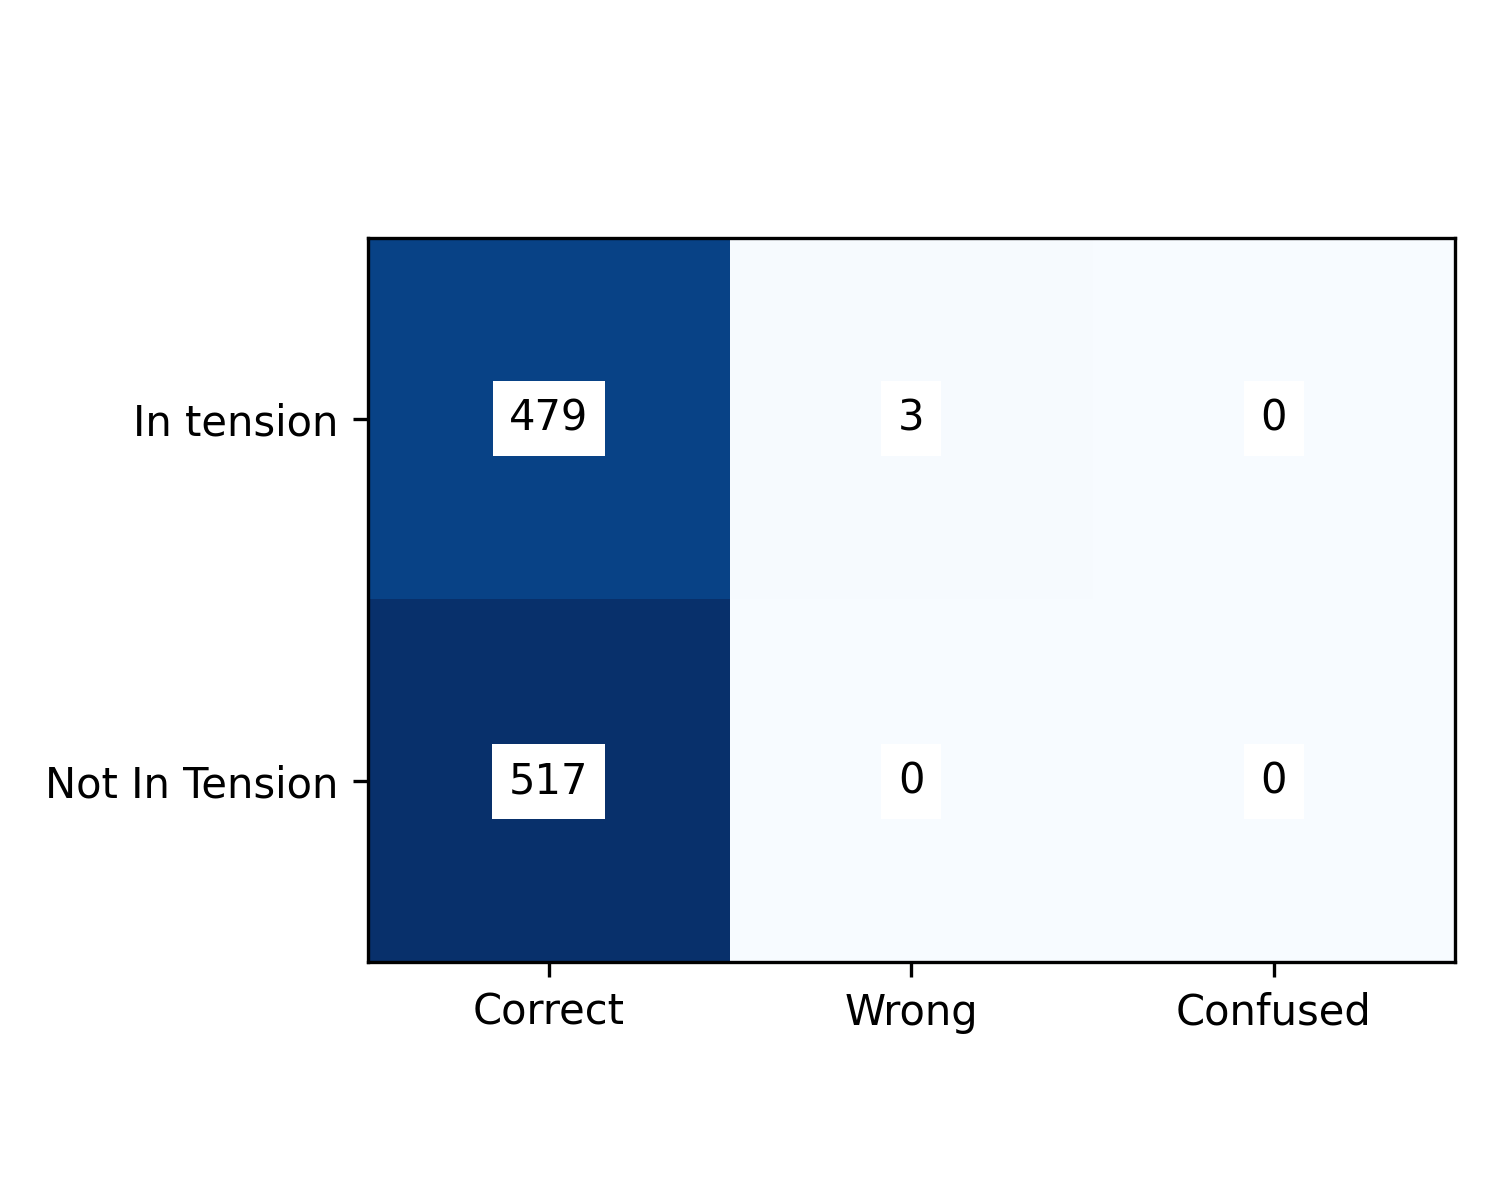
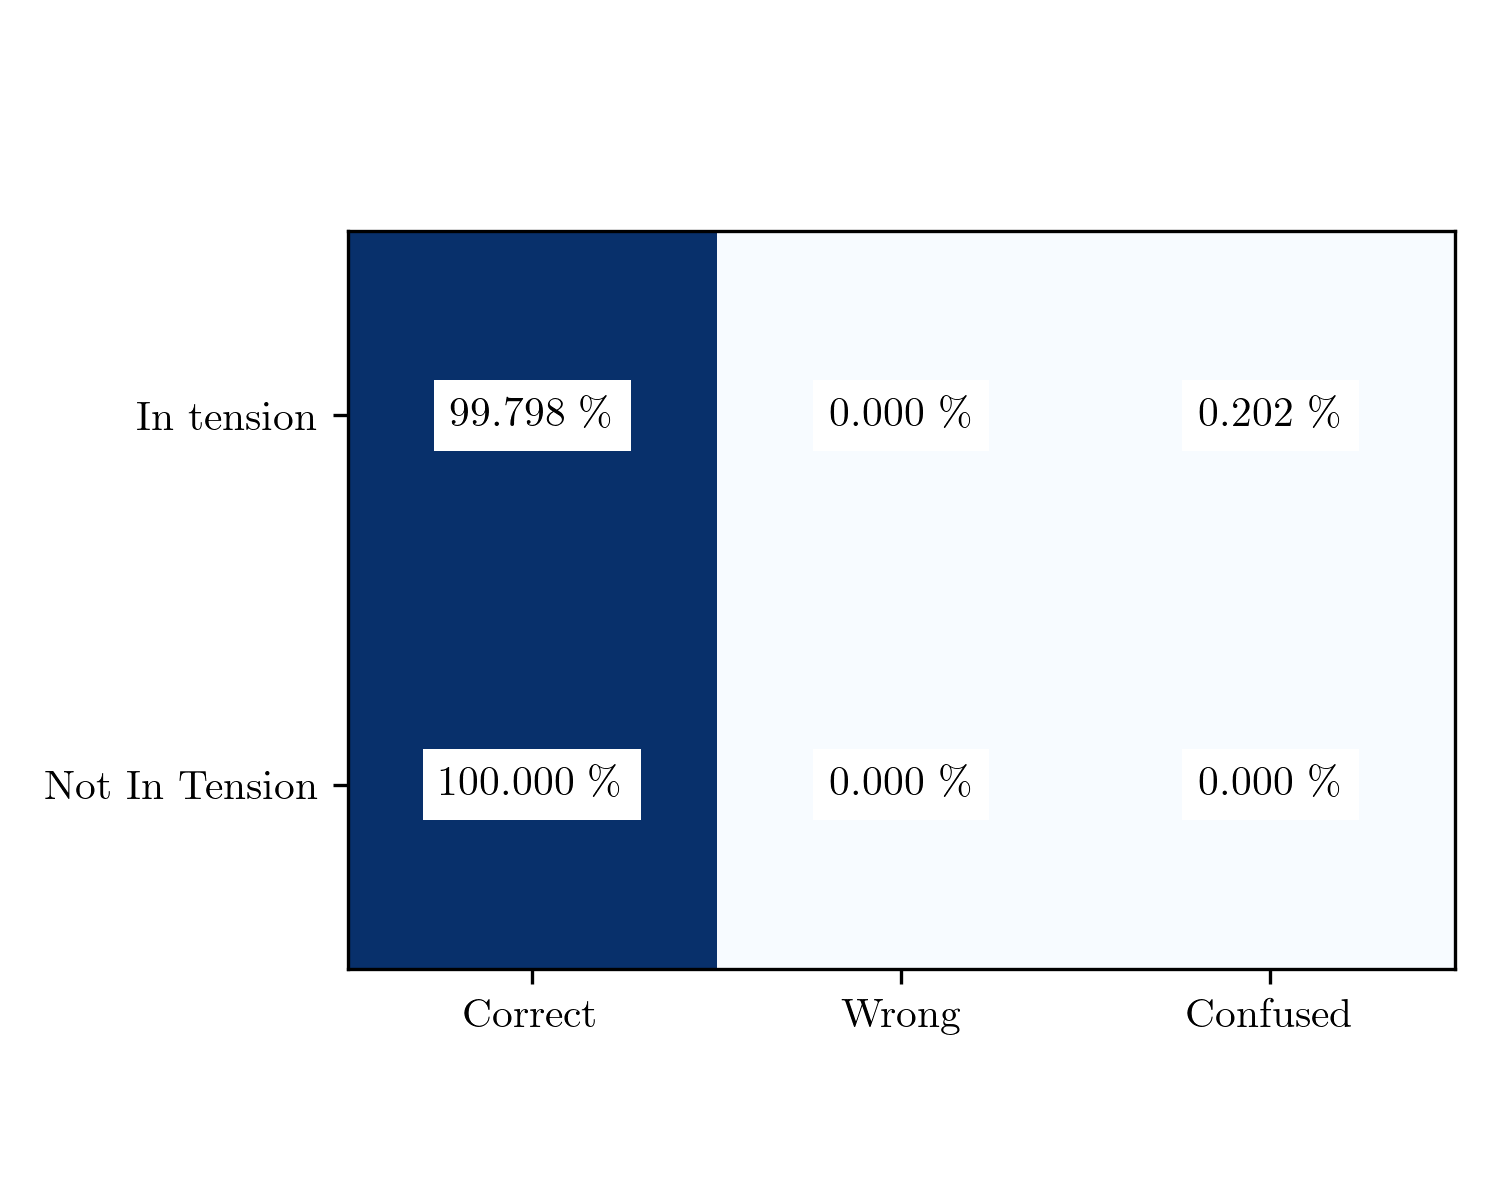
filtering out mis classified models and better plot formats

diff --git a/call.py b/call.py
@@ -3,6 +3,18 @@ import matplotlib.pyplot as plt
 import tensorflow as tf
 from cmbemu.eval import evaluate
 import camb
+import matplotlib as mpl
+from matplotlib import rc
+
+mpl.rcParams['axes.prop_cycle'] = mpl.cycler('color',
+    ['ff7f00', '984ea3', '999999', '377eb8', '4daf4a','f781bf', 'a65628', 'e41a1c', 'dede00'])
+mpl.rcParams['text.usetex'] = True
+rc('font', family='serif')
+rc('font', serif='cm')
+rc('savefig', pad_inches=0.05)
+
+plt.rc('text.latex', preamble=r'\usepackage{amsmath} \usepackage{amssymb}')
+
 
 def load_planck():
 
@@ -116,11 +128,15 @@ print(r)
 mask = np.isfinite(r)
 sigr = tf.keras.layers.Activation('sigmoid')(r[mask])
 c = 0
+good_idx = []
 for i in range(len(sigr)):
     if sigr[i] < 0.75:
         c += 1
+    else:
+        good_idx.append(i)
 
-print(c, sigr)
+r = r[good_idx]
+mask = np.isfinite(r)
 
 Rs = [-0.055]
 sigma_Rs = [0.283]
@@ -202,7 +218,7 @@ fig, axes = plt.subplots(1, 1, figsize=(5, 4))
 plt.imshow(cm, cmap='Blues')
 for i in range(2):
     for j in range(3):
-        plt.text(j, i, '{:.3f} %'.format(cm[i][j]), ha='center', va='center', color='k',
+        plt.text(j, i, '{:.3f} \%'.format(cm[i][j]), ha='center', va='center', color='k',
                  bbox=dict(facecolor='white', lw=0))
 plt.xticks([0, 1, 2], ['Correct', 'Wrong', 'Confused'])
 plt.yticks([0, 1], ['In tension', 'Not In Tension'])

diff --git a/simple_data_call.py b/simple_data_call.py
@@ -13,6 +13,7 @@ rc('savefig', pad_inches=0.05)
 
 plt.rc('text.latex', preamble=r'\usepackage{amsmath} \usepackage{amssymb}')
 
+
 def signal_func_gen(freqs):
     def signal(_, parameters):
         amp, nu_0, w = parameters
@@ -72,9 +73,15 @@ r = nrei.r_values
 mask = np.isfinite(r)
 sigr = tf.keras.layers.Activation('sigmoid')(r[mask])
 c = 0
+good_idx = []
 for i in range(len(sigr)):
     if sigr[i] < 0.75:
         c += 1
+    else:
+        good_idx.append(i)
+
+r = r[good_idx]
+mask = np.isfinite(r)
 
 temperatures = np.array([0.1, 0.15, 0.2, 0.25, 0.3, 0.35, 0.4, 0.45, 0.5])/0.2
 Rs =[ -63.01687826,  -12.40474379,    9.77660272,  -17.25641865,  -33.974196,
@@ -185,7 +192,7 @@ fig, axes = plt.subplots(1, 1, figsize=(5, 4))
 plt.imshow(cm, cmap='Blues')
 for i in range(2):
     for j in range(3):
-        plt.text(j, i, '{:.3f} %'.format(cm[i][j]), ha='center', va='center', color='k',
+        plt.text(j, i, '{:.3f} \%'.format(cm[i][j]), ha='center', va='center', color='k',
                  bbox=dict(facecolor='white', lw=0))
 plt.xticks([0, 1, 2], ['Correct', 'Wrong', 'Confused'])
 plt.yticks([0, 1], ['In tension', 'Not In Tension'])
